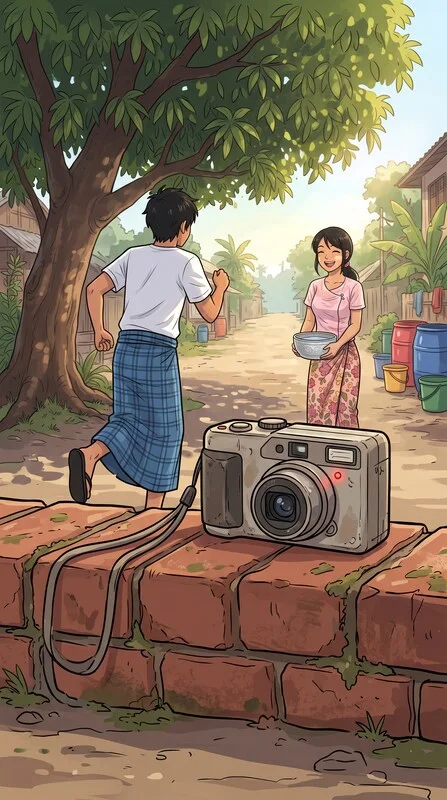
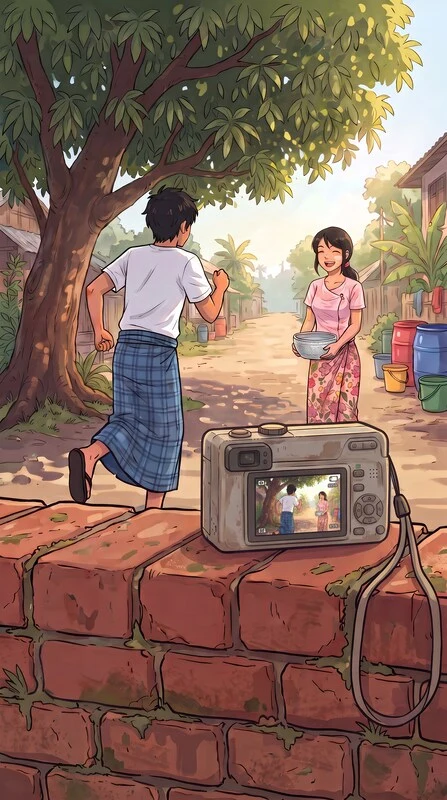
Ch3: approved image edits, let-go shot on the deleted path
Claude-Session: https://claude.ai/code/session_01EzvUtRavncbLs7RHFedc6g

diff --git a/index.html b/index.html
@@ -1245,6 +1245,7 @@ const CH2=[
 SCENE.wstreet='<img src="img/c3-street.webp" alt="" draggable="false">';
 SCENE.mayEnd='<img src="img/c3-may-end.webp" alt="" draggable="false">';
 SCENE.crowd='<img src="img/c3-crowd.webp" alt="" draggable="false">';
+SCENE.crowdLetGo='<img src="img/c3-letgo.webp" alt="" draggable="false">';
 SCENE.mango='<img src="img/c3-mango.webp" alt="" draggable="false">';
 SCENE.mangoPhoto='<div style="position:absolute;inset:0;background:#1a1f1e;display:flex;align-items:flex-start;justify-content:center;padding-top:22%"><div style="width:84%;background:#f6f1e7;padding:10px 10px 34px;border-radius:4px;box-shadow:0 10px 30px rgba(0,0,0,.4);transform:rotate(-2deg)"><img src="img/thingyan.webp" alt="" draggable="false" style="position:static;width:100%;height:auto;display:block"></div></div>';
 SCENE.towel='<img src="img/c3-towel.webp" alt="" draggable="false">';
@@ -1273,7 +1274,7 @@ const CH3=[
  {if:{test:f=>f.c3_wet==='dry',then:[{say:['May',"How are you dry? That's illegal on Thingyan."]},{narr:'She fixes that with one bowl of water.'}],else:[{say:['May',"You're supposed to splash me, not get splashed!"]}]}},
  {shot:'crowd'},
  {narr:'A crowd pushes past the pandal. May grabs Min\'s hand so she doesn\'t lose him.'},
- {if:{test:f=>f.c2_friends===true,then:[{narr:"She doesn't let go. Under the tea shop awning, Hnin sees, and goes back to folding towels."}],else:[{narr:'Someone from her street calls her name. She lets go, quick, like it never happened.'}]}},
+ {if:{test:f=>f.c2_friends===true,then:[{narr:"She doesn't let go. Under the tea shop awning, Hnin sees, and goes back to folding towels."}],else:[{narr:'Someone from her street calls her name.'},{shot:'crowdLetGo'},{narr:'She lets go, quick, like it never happened.'}]}},
  {shot:'mango'},
  {narr:'Under the mango tree, Min sets his camera on the wall and starts the self-timer.'},
  {choice:{flag:'c3_photo',opts:[
